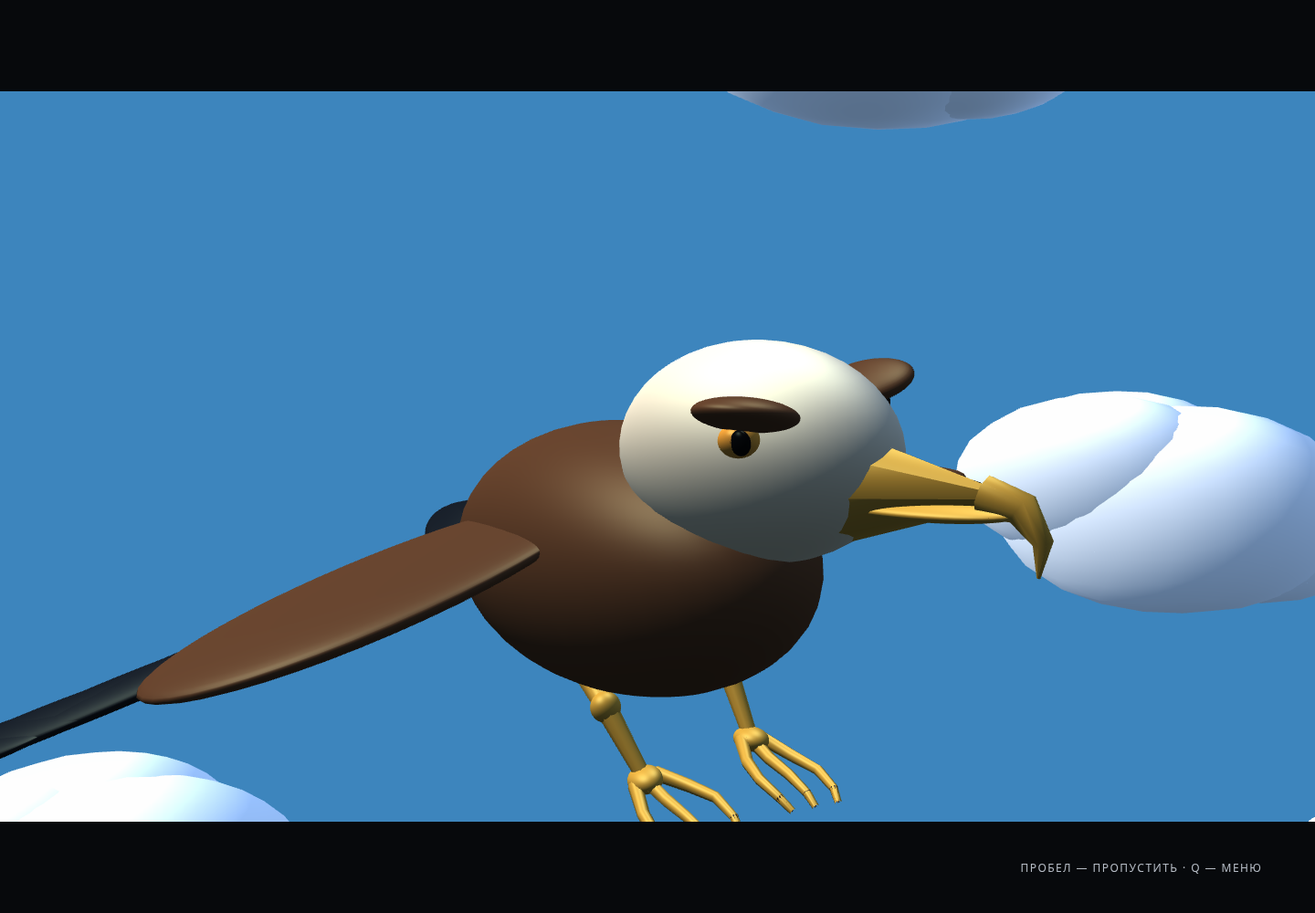
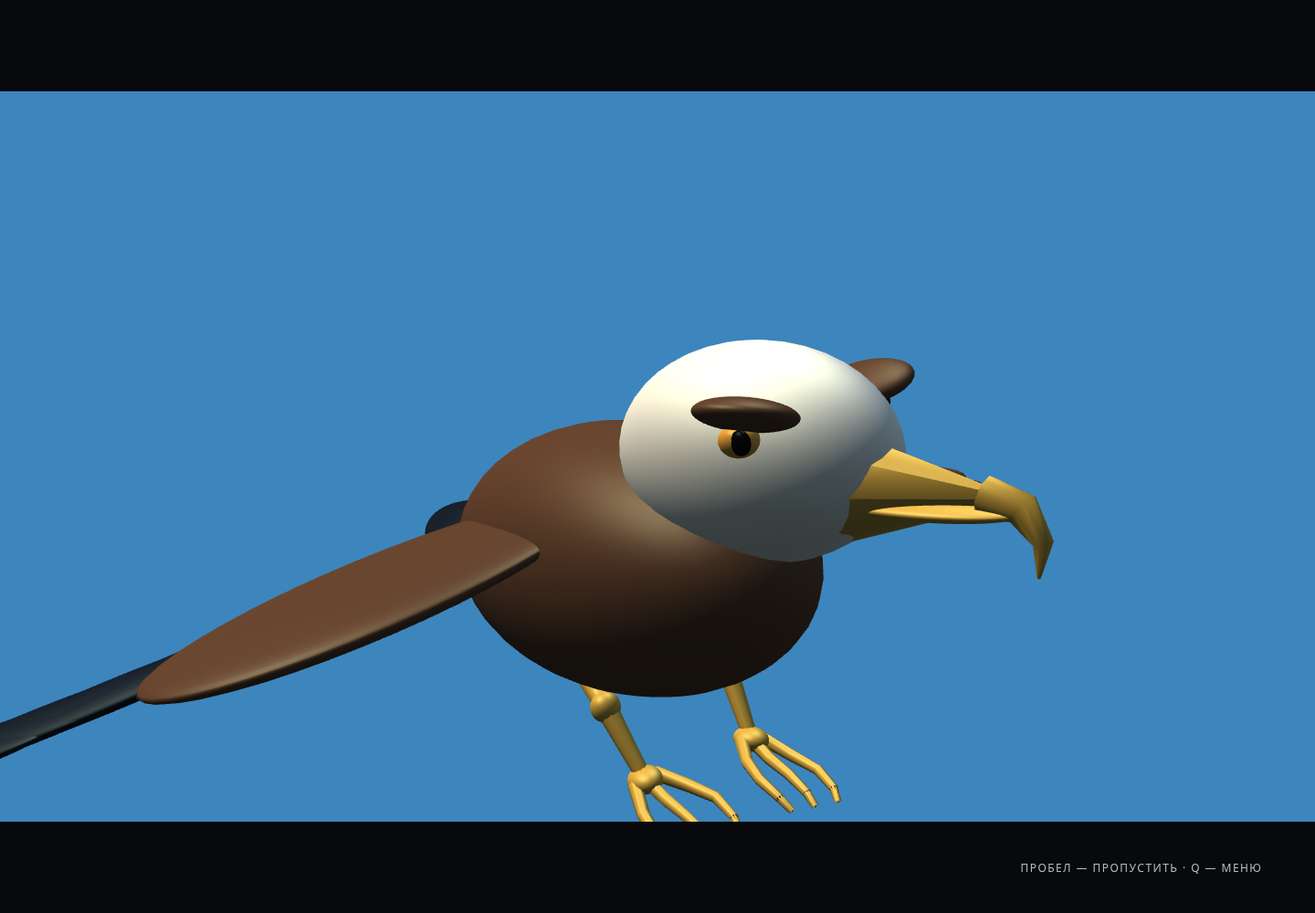
Stage eagle entry offscreen and document AI development roadmap

Changed region(s): [[0.7188, 0.403, 1.0, 0.682], [0.0, 0.806, 0.2188, 0.899], [0.5625, 0.093, 0.8125, 0.155]]

diff --git a/tests/browser/cinematic.spec.ts b/tests/browser/cinematic.spec.ts
@@ -325,3 +325,34 @@ test('eagle spotting insert leads to a rear talon grip, shocked beak and continu
   expect(Number(await canvas.getAttribute('data-solar-alignment'))).toBeLessThan(0.03);
   expect(errors).toEqual([]);
 });
+
+test('eagle stays outside the lens when enabled and flies in through the edge of the pursuit shot', async ({
+  page,
+}) => {
+  await page.clock.install();
+  await page.goto('/?seed=12');
+  await page.locator('#enter-cinematic').click({ timeout: 60000 });
+  const canvas = page.locator('#world');
+  await page.clock.pauseAt(await page.evaluate(() => Date.now() + 1000));
+  const show = async (t: number, file?: string) => {
+    const now = Number(await canvas.getAttribute('data-animation-time'));
+    await page.clock.fastForward((t - now) * 1000);
+    await page.clock.runFor(16);
+    if (file) await page.screenshot({ path: 'docs/images/' + file + '.png' });
+  };
+  for (const t of [51, 52.5]) {
+    await show(t);
+    await expect(canvas).toHaveAttribute('data-intro-eagle', 'true');
+    await expect(canvas).toHaveAttribute('data-eagle-in-frame', 'false');
+  }
+  await show(53.8, 'worm-eagle-notices');
+  await expect(canvas).toHaveAttribute('data-eagle-in-frame', 'true');
+  for (const t of [55.2, 63, 65, 66.8, 67.05]) {
+    await show(t, t === 67.05 ? 'worm-eagle-before-entry' : undefined);
+    await expect(canvas).toHaveAttribute('data-intro-eagle', 'true');
+    await expect(canvas).toHaveAttribute('data-eagle-in-frame', 'false');
+  }
+  await show(69.8, 'worm-eagle-enters-edge');
+  await show(70.5, 'worm-eagle-entered');
+  await expect(canvas).toHaveAttribute('data-eagle-in-frame', 'true');
+});

diff --git a/src/core/cinematic.test.ts b/src/core/cinematic.test.ts
@@ -94,7 +94,7 @@ test('both birds fit the attack camera and the fall camera tracks the rotating b
       right[2]! * forward[0]! - right[0]! * forward[2]!,
       right[0]! * forward[1]! - right[1]! * forward[0]!,
     ];
-    for (const bird of [s.crow, s.eagle]) {
+    for (const bird of time >= 71 ? [s.crow, s.eagle] : [s.crow]) {
       const relative = sub(bird, s.camera),
         depth = dot(relative, forward);
       assert.ok(depth > 0);
@@ -275,4 +275,23 @@ test('the eagle notices the crow in a short insert, overtakes from behind and cl
       assert.ok(Math.hypot(...world.map((v, j) => v - targets[i]![j]!)) < 1e-8);
     });
   }
+});
+
+test('eagle is enabled beyond the lens and starts the pursuit shot beyond the left edge', () => {
+  const sub = (a: number[], b: number[]) => a.map((v, i) => v - b[i]!);
+  const dot = (a: number[], b: number[]) => a.reduce((sum, v, i) => sum + v * b[i]!, 0);
+  const norm = (a: number[]) => a.map((v) => v / Math.hypot(...a));
+  const radius = EAGLE_SCALE * 2.1; // Conservative envelope including spread wing tips.
+  for (const t of [51, 55, 63, 65, 66.9]) {
+    const s = sampleIntro(t),
+      forward = norm(sub(s.target, s.camera));
+    assert.ok(s.eagleVisible);
+    assert.ok(dot(sub(s.eagle, s.camera), forward) + radius < 0);
+  }
+  const s = sampleIntro(67),
+    forward = norm(sub(s.target, s.camera));
+  const right = norm([forward[2]!, 0, -forward[0]!]),
+    relative = sub(s.eagle, s.camera);
+  const k = Math.tan(0.75 / 2) * 1.44;
+  assert.ok((dot(relative, right) + k * dot(relative, forward)) / Math.hypot(1, k) + radius < 0);
 });

diff --git a/src/core/cinematic.ts b/src/core/cinematic.ts
@@ -47,8 +47,8 @@ function crowPath(t: number): Point {
 }
 function eaglePath(t: number): Point {
   // Faster flight along the crow's heading: approach from behind, then carry the caught bird.
-  const catchUp = smooth((t - 65) / 9.6);
-  const offset = mix([6, 12, -28], [0, 5.65, -0.8], catchUp);
+  const catchUp = smooth((t - 67) / 7.6);
+  const offset = mix([20, 12, -100], [0, 5.65, -0.8], catchUp);
   return add(crowPath(t), offset);
 }
 const velocity = (path: (t: number) => Point, t: number): Point =>
@@ -145,7 +145,11 @@ export const SUN_POSITION = add(
 const RELEASE_OFFSET: Point = [3.2, 1.2, 5.8];
 function attackFrame(t: number, crow: Point, eagle: Point, worm: Point, rotation: Point) {
   const push = smooth((t - 71.5) / 3);
-  const target = mix(mix(crow, eagle, 0.5), add(worm, rotate([0, 0.17, -1.05], rotation)), push);
+  const target = mix(
+    mix(crow, eagle, 0.35 * smooth((t - 68.5) / 2)),
+    add(worm, rotate([0, 0.17, -1.05], rotation)),
+    push,
+  );
   return { target, camera: add(target, mix([43, 16, 36], RELEASE_OFFSET, push)) };
 }
 export function sampleIntro(seconds: number) {
@@ -328,7 +332,8 @@ export function sampleIntro(seconds: number) {
     crowVisible: time >= 18 && time < 85,
     eagle,
     eaglePose,
-    eagleVisible: spotting || (time >= 65 && time < 85),
+    // Enable while fully behind the camera; never toggle a bird on inside a shot.
+    eagleVisible: time >= 51 && time < 85,
     carried,
     falling,
     grip: attachment.grip,

diff --git a/src/render/createStudyScene.ts b/src/render/createStudyScene.ts
@@ -1,3 +1,4 @@
+import { Frustum } from '@babylonjs/core/Maths/math.frustum';
 import { WORLD_PALETTE as palette } from './palette.ts';
 import { createCinematicSky } from './cinematicSky.ts';
 import { ColorCurves } from '@babylonjs/core/Materials/colorCurves';
@@ -220,6 +221,13 @@ export async function createStudyScene(
             .filter((m) => m.name === 'eagle-curling-toe')
             .map((m) => Math.max(...m.getBoundingInfo().boundingBox.extendSizeWorld.asArray()) * 2),
         ),
+      );
+      const planes = Frustum.GetPlanes(scene.getTransformMatrix());
+      canvas.dataset.eagleInFrame = String(
+        scene
+          .getTransformNodeByName('eagle')!
+          .getChildMeshes()
+          .some((mesh) => mesh.isEnabled() && mesh.isInFrustum(planes)),
       );
       canvas.dataset.eagleSpotting = String(sample.spotting);
       canvas.dataset.eagleGrasp = String(sample.eaglePose.grasp ?? 0);

diff --git a/docs/DEVELOPMENT_ROADMAP.md b/docs/DEVELOPMENT_ROADMAP.md
@@ -1,0 +1,126 @@
+# ProjectAtom: порядок дальнейшей разработки с ИИ
+
+Исследование: 11 ноября 2026. Это **рекомендация для обсуждения**, а не новое утверждённое ТЗ. Согласованные решения остаются в PROJECT_KNOWLEDGE.md. Массовое производство контента, смена движка, подключение сервера или установка сторонних наборов агентов этой задачей не выполнялись.
+
+## Главный вывод
+
+ИИ помогает быстрее проходить обычный цикл создания игры: определить цель → проверить предположение → сделать небольшой законченный фрагмент → поиграть → исправить → повторить. Генерация большого количества кода, моделей или сцен сама по себе не подтверждает готовность игры.
+
+Для ProjectAtom уже проверены важные технические возможности: управление червём, камера, жук, процедурные модели, анимации, синематик, авторская MIDI-музыка, настройки и работа в браузере. Следующая ключевая проверка — **полный цикл взаимной помощи двух игроков**. В базе уже описан старый 2D-макет game.html из mvp/beetle-relay: его решения следует использовать при проектировании 3D-версии, а не начинать дизайн этой петли заново.
+
+## Последовательность и критерии перехода
+
+| Этап | Что делаем для ProjectAtom | Результат, по которому двигаемся дальше |
+| --- | --- | --- |
+| 1. Короткий документ о замысле и границах | 1–2 страницы: игроки/роли, обещанное впечатление, действия, смысл сотрудничества, успех/ошибка, объём первой версии | Можно объяснить конкретный игровой цикл; обязательные функции отделены от будущих идей |
+| 2. Игровой прототип обеих ролей | Одна цепочка: червь описывает знак/жест → оператор находит подстилку → жук освобождает проход → червь находит маркировку → оператор использует её в условном приборе | Два человека проходят цепочку, понимают свою задачу; у обеих ролей есть решения, ошибки исправимы, ожидание не превращается в бездействие |
+| 3. Визуальное направление, параллельно этапу 2 | Несколько небольших вариантов → один выбранный: палитра, свет, пропорции героев, окружение, шрифты/UI, камера, звук | Пара целевых кадров и короткий эпизод в движке позволяют воспроизводить стиль, а не каждый раз переизобретать его |
+| 4. Вертикальный срез | Один представительный игровой эпизод двух ролей с близким к целевому качеством: запуск/роль → игра → результат → повтор; основные визуальные/звуковые ресурсы проходят весь путь производства | Проверен и игровой опыт, и возможность регулярно делать такой контент; понятны трудозатраты и слабые места |
+| 5. Второй эпизод и оценка масштаба | Создаём ещё одну цепочку/небольшую зону тем же способом | Добавление следующего эпизода требует предсказуемых действий, а не переписывания систем; появляется основание оценивать оставшийся объём |
+| 6. Производство контента | Загадки, зоны, реплики, музыка, анимации и сцены по согласованным шаблонам; ограниченный список обязательного | Готов весь обязательный игровой путь; новые идеи записаны отдельно и не меняют постоянно основу |
+| 7. Завершение и полировка | Полнота функций, затем полнота контента; обучение, понятность, баланс здоровья/ожидания, переходы, звук, производительность, ошибки | Две новые пары игроков проходят путь без подсказок разработчика; согласованный список обязательного закрыт |
+| 8. Сборка для передачи игрокам | Запуск на чистой целевой машине, Windows/macOS и согласованные браузеры, локальные ресурсы, понятные инструкции, повтор/сброс | Игру можно передать другому человеку и воспроизвести прохождение из сохранённой версии |
+
+Названия alpha/beta у разных студий различаются; здесь полезно явно записывать «функции готовы» и «контент готов», чтобы не спорить о терминах. Точные сроки и длительность первой сессии нужно оценивать по собственному второму эпизоду, а не по чужим роликам про «игру за вечер».
+
+Вертикальный срез — маленький представительный участок качества и процесса будущей игры. Это не просто более длинный пролог. Проверка интереса механик начинается раньше, в игровом прототипе.
+
+## Что зафиксировать до расширения игры
+
+### Дизайн и кооперация
+
+- Три-четыре опорных принципа. Уже согласованные направления: серьёзная подача абсурда; различающаяся информация у двух ролей; взаимная помощь; умирающий, истощённый червь. Формулировки и приоритеты стоит собрать в коротком документе.
+- Действия каждой роли и пример первых минут. Для каждой задачи: что игрок видит, что сообщает, что решает и что меняется после помощи.
+- Результат сессии, ошибки, восстановление после них и момент запуска финала. Эти пункты частично остаются открытыми в существующем ТЗ.
+- Общие часы T0, загрузка, пропуск вступления, фоновая вкладка и меню без паузы. Оба игрока должны понимать, сколько времени прошло, даже при разной локальной постановке.
+- Граница офлайн-кооперации: seed задаёт исходные данные, но не передаёт действия партнёра. Сохраняем выбранное направление — внешний голос, код матча и согласованный режим времени. Каждое необходимое влияние между ролями должно иметь понятный канал: сообщение, предусмотренное действие или отдельный согласованный обмен. Наличие сервера не предполагается автоматически.
+
+### Визуальное направление
+
+Палитру разумно определить **до большого производства ресурсов**. Для выбора достаточно малых проб; игровые проверки не обязаны ждать финальной палитры.
+
+Короткий визуальный документ должен включать:
+
+- референсы с пояснениями, что именно берём: свет, контраст, материалы, масштаб, интерфейс;
+- основные/акцентные цвета и назначение каждого;
+- пропорции червя, жука и птиц, анфас/профиль/силуэт и состояния здоровья;
+- правила материалов: поверхность кожи, шероховатость, влажность, металл, растительность;
+- типографику и правила серьёзного UI, читаемость подсказок;
+- целевые кадры и одну сцену проверки в движке: крупный план, обычная камера, движение;
+- несколько явно нежелательных признаков, например змеиная расширенная голова у червя.
+
+Текущая PALETTE.md — полезная первая версия, а не обещание, что художественный поиск завершён. Генерируемое концепт-изображение задаёт направление; игровая 3D-модель дополнительно требует геометрии, материалов, деформации и проверки в сцене.
+
+### Техника и производство ресурсов
+
+Текущий Babylon.js + TypeScript сохраняет ценность проверенного управления, часов и сцены. Решение о смене движка имеет смысл принимать по конкретному ограничению и малому сравнительному тесту.
+
+Перед созданием десятков объектов проверяем один полный путь: референс → модель → материалы → rig/деформация → анимация → сцена → браузерный просмотр → исправление. Для Blender/GLB отдельно подтвердить импорт, масштаб, оси, материалы и анимацию. Процедурный червь может оставаться рабочим решением, если подходит по качеству и управляемости.
+
+Для контента нужны редактируемые данные: соответствия признаков жука, подстилки, текст справочника, музыкальные/камерные события. Изменение одной загадки должно затрагивать понятное место. Нынешние доказанные компоненты стоит оценить и сохранить; полная автоматическая перепись прототипа не является целью.
+
+Регистрируем источник модели/текстуры/звука, выбранную версию и условия использования. Авторскую MIDI-запись и настройки рендера уже храним отдельно — это подходящий образец воспроизводимого ресурса.
+
+## Практика работы со мной
+
+### Одна задача — один проверяемый результат
+
+Для небольшой правки можно сразу реализовывать. Для большого неоднозначного изменения сначала полезны варианты и короткий план. Пример задания:
+
+> Цель: орёл входит в общий план через левую границу, без появления внутри кадра.
+> Контекст: сцена после перебивки 53–55 с.
+> Сохранить: захват к 74,6 с, выпуск на 75 с, солнце и 35 секунд падения.
+> Готово, когда: в момент включения вся модель за камерой; затем пересекает край; захват и переезд работают; есть проверочные кадры.
+
+Хорошее задание сообщает желаемый результат, важные ограничения и критерий готовности. Заранее диктовать каждую строку реализации не требуется.
+
+### Три разные проверки качества
+
+1. **Правила:** часы, состояние загадок/здоровья, seed, камера и пространственные ограничения — автоматические тесты подходящего уровня.
+2. **Представление:** фактическая геометрия, захват, видимость, звук и переходы — запуск, кадры или короткое видео, просмотр результата.
+3. **Игровой опыт:** понятность, интерес, эмоциональное впечатление и ожидание второго игрока — человеческий плейтест. Тест «код работает» этого не доказывает.
+
+Для кинематографической правки полезен набор кадров «до → начало → контакт → после» и проверка движения, а не только один удачный снимок. Для изображения задаём конкретные признаки, затем ты оцениваешь художественный результат.
+
+### Контекст, решения и сохранения
+
+- PROJECT_KNOWLEDGE.md — согласованный игровой замысел; docs/design — модели, визуал и постановка; HANDOFF.md — актуальное состояние и продолжение.
+- Полезно в будущем добавить короткий AGENTS.md с командами запуска/проверок и ссылками на канонические документы. Огромный монолит инструкций быстро устаревает.
+- Для важных выборов сохранять причину и статус: «предложено», «выбрано», «проверено», «заменено». Предложение из этого документа не становится утверждённым автоматически.
+- Следующая задача получает нужные документы и текущий исходник, даже если это новый чат. Один чат на связную задачу помогает ограничить разрастание контекста.
+- После завершённой задачи — подходящие проверки, итоговый MD и commit/push в рабочую ветку. Промежуточные сохранения — только по твоей отдельной просьбе, как уже согласовано.
+- Один простой список задач с приоритетами и ограниченным количеством начатого лучше поддерживать постоянно. Масштабный набор десятков агентов/плагинов заранее не требуется; практическая польза должна быть понятна для конкретной задачи.
+
+## Рекомендуемый следующий результат
+
+**Короткая концепция первой законченной игровой цепочки двух ролей + несколько вариантов визуального направления.** Для механики опираемся на описанный макет с жуком и операторским справочником; для визуала — на нынешние модели и палитру. После проверки цепочки двумя людьми выбираем объём вертикального среза.
+
+Проверяемые вопросы: интересно ли описывать признаки; есть ли содержательные действия у оператора; понятен ли ответ; что делает каждый игрок в ожидании; как червь возвращает помощь; как общие часы и ошибки влияют на процесс. Главное меню сначала может быть функциональным: запуск, выбор роли, код, настройки, возврат. Финальное оформление меню входит в визуальную работу и срез.
+
+## Прочитанные источники и границы выводов
+
+1. **Rami Ismail, Prototypes & Vertical Slice (26 сентября 2022):** https://ltpf.ramiismail.com/prototypes-and-vertical-slice/  
+   Различие между проверкой идеи и проверкой производства; один представительный фрагмент и повторное создание второго для оценки процесса. Профессиональный взгляд автора, не универсальный стандарт. Его рекомендацию выбрасывать прототип не трактуем как требование автоматически переписать ProjectAtom.
+
+2. **Rami Ismail, Milestones:** https://ltpf.ramiismail.com/milestones/  
+   Цели этапов, полнота функций/контента, производство и завершение. Приведённые автором сроки для студий не перенесены на наш проект.
+
+3. **OpenAI, Best practices:** https://developers.openai.com/codex/learn/best-practices/  
+   На дату чтения перенаправляет на https://learn.chatgpt.com/guides/best-practices. Контекст/цель/ограничения/готовность, план сложной работы, краткий AGENTS.md, тесты и review. Это рекомендации по инструменту, не доказательство интереса конкретной игры.
+
+4. **OpenAI, Building a retro handheld game with Codex and ModRetro Chromatic (9 ноября 2026):** https://developers.openai.com/blog/build-a-game-with-modretro-chromatic  
+   Практический пример цикла «маленькая игра → сборка → игра → конкретная правка → повтор», кадров анимации и проверки последовательности действий. Пример другого масштаба и платформы; установка этого плагина нам не нужна.
+
+5. **Godot, Project organization:** https://docs.godotengine.org/en/stable/tutorials/best_practices/project_organization.html  
+   Организация ресурсов и связанных сцен. Используем общую идею согласованной структуры, а не предписание менять движок или структуру файлов Babylon.js.
+
+6. **Community workflow guide:** https://github.com/CoralGame/Claude-Code-Game-Studios/blob/main/docs/WORKFLOW-GUIDE.md  
+   Доступный пример большого шаблона AI-студии: концепция → системы → ограниченные задачи → проверки → этапы выпуска. Это community-шаблон, а не подтверждение, что десятки агентов полезнее малого процесса. Его команды/правила не устанавливались и не применялись к репозиторию.
+
+7. **Обсуждение опыта шести месяцев разработки с Claude Code:** https://www.reddit.com/r/ClaudeCode/comments/1qknr1v/what_i_learned_building_a_full_game_with_claude/  
+   Прочитан индексируемый поиском фрагмент: небольшие играбельные этапы, короткие правила проекта и планирование сложных функций. Полная страница Reddit вернула 403; весь пост и комментарии не проверены. Личный рассказ, а не сравнительное исследование.
+
+8. **Обсуждения Hacker News:** https://news.ycombinator.com/item?id=44088248 и https://news.ycombinator.com/item?id=43619759  
+   Прочитаны открытые комментарии через HN API. В первом видны вопросы игроков о правилах, цветах и сложности; во втором — разные мнения о пользе AI и роли человеческого мастерства. Это дополнительный контекст и свидетельство важности проверки людьми; из этих отдельных веток нельзя вывести отраслевой консенсус.
+
+Поиск проводился по публичным сайтам, включая Brave Search; обычный HTTP-доступ работает. Нет одного подтверждённого «лучшего AI-пайплайна» для всех игр. Предложенный порядок — адаптация прочитанных материалов к нашим ограничениям и уже сделанной работе.

diff --git a/docs/HANDOFF.md b/docs/HANDOFF.md
@@ -2,7 +2,21 @@
 
 Обновлено: 11 ноября 2026. Рабочая ветка: `spike/worm-third-person`.
 
-## Актуальный результат: червеобразная голова и выраженные кольца
+## Актуальный результат: вход орла за кадром и исследование процесса разработки
+
+База — c1a5a62. Пользователь заметил резкое появление орла слева внутри кадра и попросил исправить вход. Второй запрос — поиск гайдов/обсуждений о разработке игр с ИИ и рекомендуемый порядок дальнейших этапов.
+
+Орёл больше не включается на 65 с уже внутри кадра: становится активным на 51 с, целиком за камерой, и сохраняет видимость через перебивку 53–55 с и возврат к вороне. До 67 с отстаёт далеко за камерой; в начале плана погони целиком находится за левой границей. Затем влетает через край и догоняет ворону. Камера сначала держит ворону и постепенно включает орла в композицию; захват 74,6 с, выпуск 75 с и всё последующее сохранены.
+
+Проверено: сборка успешна, **43 модульных теста passed**; два затронутых браузерных сценария — **2 passed**, 21,3 с. Новый сценарий проверяет реальную геометрию орла относительно frustum на 51 / 52,5 / 55,2 / 63 / 65 / 66,8 / 67,05 с и видимость после входа; старый проверяет захват, реакцию, выпуск и солнце. Просмотрены кадры до входа, пересечения левого края и после. Полный музыкальный прогон и остальная игровая серия не повторялись: звук, длительности, управление и модель червя не менялись.
+
+Подробный результат исследования — **docs/DEVELOPMENT_ROADMAP.md**, ссылка добавлена в README. Прочитаны Rami Ismail (Prototypes & Vertical Slice / Milestones), официальные рекомендации Codex и пример разработки игры, Godot Project organization, community AI-workflow на GitHub и открытые комментарии HN. Brave Search доступен; Google в этом окружении вернул страницу для JS, Reddit — 403. По опыту шестимесячной разработки с Claude доступен индексируемый фрагмент, это ограничение записано в документе. Никакие внешние инструкции/наборы агентов не устанавливались и не запускались.
+
+Рекомендуемый порядок: короткая концепция/границы → проверка игровой петли двух ролей → визуальное направление параллельно → представительный вертикальный срез и проверка производства → второй эпизод для оценки → остальной контент → полнота/полировка/QA → упаковка. Для ProjectAtom следующая содержательная проверка — взаимная помощь червя и оператора с использованием уже описанного 2D-макета из mvp/beetle-relay. Палитру/стиль следует закреплять до большого производства ресурсов; сервер или смена движка не подразумеваются. План — **предложение для обсуждения**, а не новое ТЗ и не разрешение сразу реализовать все этапы. Документ содержит критерии переходов, шаблон задачи, практику контекста/визуальной проверки и источники с оценкой надёжности.
+
+Согласованное правило сохранений прежнее: один итоговый MD/commit/push после завершения, промежуточные только по отдельной просьбе. Ветка spike/worm-third-person, без merge main/dev и без публикации среды.
+
+## Предыдущий этап: червеобразная голова и выраженные кольца
 
 База — b145515. Пользователь заметил сходство со змеёй из-за формы головы и недостаточно заметной сегментации. Передний конец укорочен и сужен до ширины туловища: радиусы 0,081 × 0,073 × 0,095 вместо 0,105 × 0,082 × 0,16. Короткая округлая форма без расширенного черепа/шеи, глаза и рот уменьшены и перенесены вперёд. Усталые веки и маленький опущенный рот сохранены. Цвет лица на 25% смешан с пигментом тела, чтобы оно не воспринималось отдельной светлой головой.
 

diff --git a/PROJECT_KNOWLEDGE.md b/PROJECT_KNOWLEDGE.md
@@ -24,6 +24,8 @@
 - Исправлено проникновение червя под землю перед склейкой: учитывается объём вращающейся головы/лица и вся поверхность тела, вершины проверяются в мировых координатах, а не только Y корня. Последняя фаза камеры идёт над центром прохода, без перекрытия удара камнями. Тайминги, музыка и захват клювом сохранены.
 - Последняя постановка: червь длиннее в 1,5 раза (шаг 0,21), почти равномерная толщина, округлый хвост. Обе птицы ещё ×1,5; ворона ускоряется вперёд и вверх, широкий план не вращается. Фронтальная камера кашля, шесть капель изо рта, звук кашля −6 dB. При отпускании теперь нет склейки: камера непрерывно подходит к червю, снижается за ним и на 78–78,7 с совмещает его с солнцем (0,7 с bullet time). Потерянное время компенсируют внутренние часы: падение остаётся 75–110 с. На 53–55 с отдельная перебивка: орёл замечает ворону. Затем догоняет её сверху сзади и закрывает когти на двух точках спины к 74,6 с; с 74,65 с крупный план удивлённой вороны, раскрытие клюва и выпадение червя на 75 с. Лапы имеют две кости и три сгибающихся пальца, мировые точки захвата проверены по реальному рендеру. Облака на линии обзора плавно рассеиваются. 48 объёмных банков облаков и 25 слоёв ближней дымки. После удара — скрученное тело на спине, 1,1 с неподвижности, слабый подъём головы, медленный переворот и распрямление с повторным кровавым кашлем. Во время падения усилены пространственные изгибы и добавлен мягкий облёт камеры. Палитра игры обновлена, небо голубое с первого кадра до управления. Место падения остаётся тем же: пользователь сам отказался от переноса в другую локацию на этом этапе. Коррекция земли теперь сохраняет объём хвоста.
 - Последняя правка модели по замечанию «похож на маленькую змею»: укорочен и сужен передний конец до ширины туловища, глаза/рот перенесены и уменьшены, цвет лица ближе к телу. 32 кольца выделены рельефом и согласованной фактурой (160 продольных интервалов, 2739 вершин). Пересчитаны объёмы защиты лица от грунта и источник капель изо рта. Постановка, длина, хвост, палитра и музыка сохранены.
+- Исправлено резкое появление орла: включается вне кадра на 51 с, остаётся активным через перебивку, в плане погони входит из-за левого края. Дальность/камера сближения пересчитаны, захват 74,6 с и выпуск 75 с сохранены.
+- По просьбе пользователя исследованы практики AI-разработки игр; предложения и прочитанные источники — docs/DEVELOPMENT_ROADMAP.md. Рекомендуемый следующий риск — полный цикл взаимопомощи двух ролей; визуальное направление можно уточнять параллельно до массового контента. Этот план является предложением: новые этапы, сервер, смена движка и сторонние агенты не утверждены и не реализованы автоматически.
 - Следующий шаг — пользовательская оценка пролога и обсуждение художественного направления, затем главное меню и полный цикл запуска. Полная эстафета, здоровье, бомба, вступление оператора, общая синхронизация и GLB-загрузчик остаются будущими задачами.
 
 ## 2. Концепция

diff --git a/docs/design/CINEMATICS.md b/docs/design/CINEMATICS.md
@@ -24,6 +24,8 @@
 
 Подача серьёзная; грустный и комический эффект возникает из самой ситуации. Шуточных подписей нет. Настроение финала Ли из первой The Walking Dead остаётся ориентиром будущего художественного этапа, без копирования героя, сцены или саундтрека.
 
+Появление орла в общем плане исправлено: модель включается на 51 с, когда целиком за камерой, и остаётся активной через перебивку 53–55 с. После возврата к вороне она снова за камерой. В начале плана погони на 67 с орёл ещё целиком за левым краем; затем физически влетает через него. Камера сначала удерживает ворону и постепенно включает преследователя в композицию. Показ внутри кадра больше не зависит от резкого переключения видимости на 65 с.
+
 Захват орлом — работающий риг, а не только пересечение траекторий. Для каждой лапы две кости и три сгибающихся пальца с крючками; стопы вычисляются относительно двух точек на спине вороны. В render/models/raptorLeg.ts строятся колени/голени и закрывающиеся когти. Та же математика crowGraspTargets в core/birds.ts задаёт мировые цели и проверяется по фактическим трансформациям стоп в браузере. Птицы после захвата продолжают лететь вместе, пока камера уходит за червём.
 
 ## Дополнительная постановка и скорость
@@ -61,3 +63,5 @@
 Новые кадры: [кашель спереди](../images/worm-front-cough.png), [полёт вперёд](../images/worm-forward-flight.png), [силуэт и солнце](../images/worm-sun-bullet.png), [облака](../images/worm-volume-clouds.png), [после удара](../images/worm-knockdown.png), [слабый подъём головы](../images/worm-weak-head-lift.png).
 
 Новая последовательность: [орёл замечает](../images/worm-eagle-notices.png), [догоняет сзади](../images/worm-rear-pursuit.png), [когти закрываются](../images/worm-talons-closing.png), [реакция вороны](../images/worm-crow-startled.png), [червь выпадает](../images/worm-grasp-release.png).
+
+Проверочные кадры входа: [до появления](../images/worm-eagle-before-entry.png), [пересечение левого края](../images/worm-eagle-enters-edge.png), [внутри кадра](../images/worm-eagle-entered.png).

diff --git a/README.md b/README.md
@@ -82,3 +82,5 @@ PLAYWRIGHT_CHROMIUM_EXECUTABLE_PATH=/usr/bin/chromium npm test
 `main` остаётся для более готового продукта, `dev` — для разработки; экспериментальные ветки не сливаются в них автоматически. Следующий шаг после пользовательской проверки червя — проектирование жизненного цикла, главного меню и начала полноценной игры, без преждевременного добавления сервера, аккаунтов или облачного ИИ.
 
 Проверка исправлений управления: 22 модульных теста и сборка прошли; проверены 11 браузерных сценариев прицельными и регрессионным запусками. [Снимок поворота тела](docs/images/worm-turn.png).
+
+Дальнейшие этапы и практика разработки с ИИ: [предлагаемый план](docs/DEVELOPMENT_ROADMAP.md). План основан на исследовании источников и пока не заменяет согласованное ТЗ.
